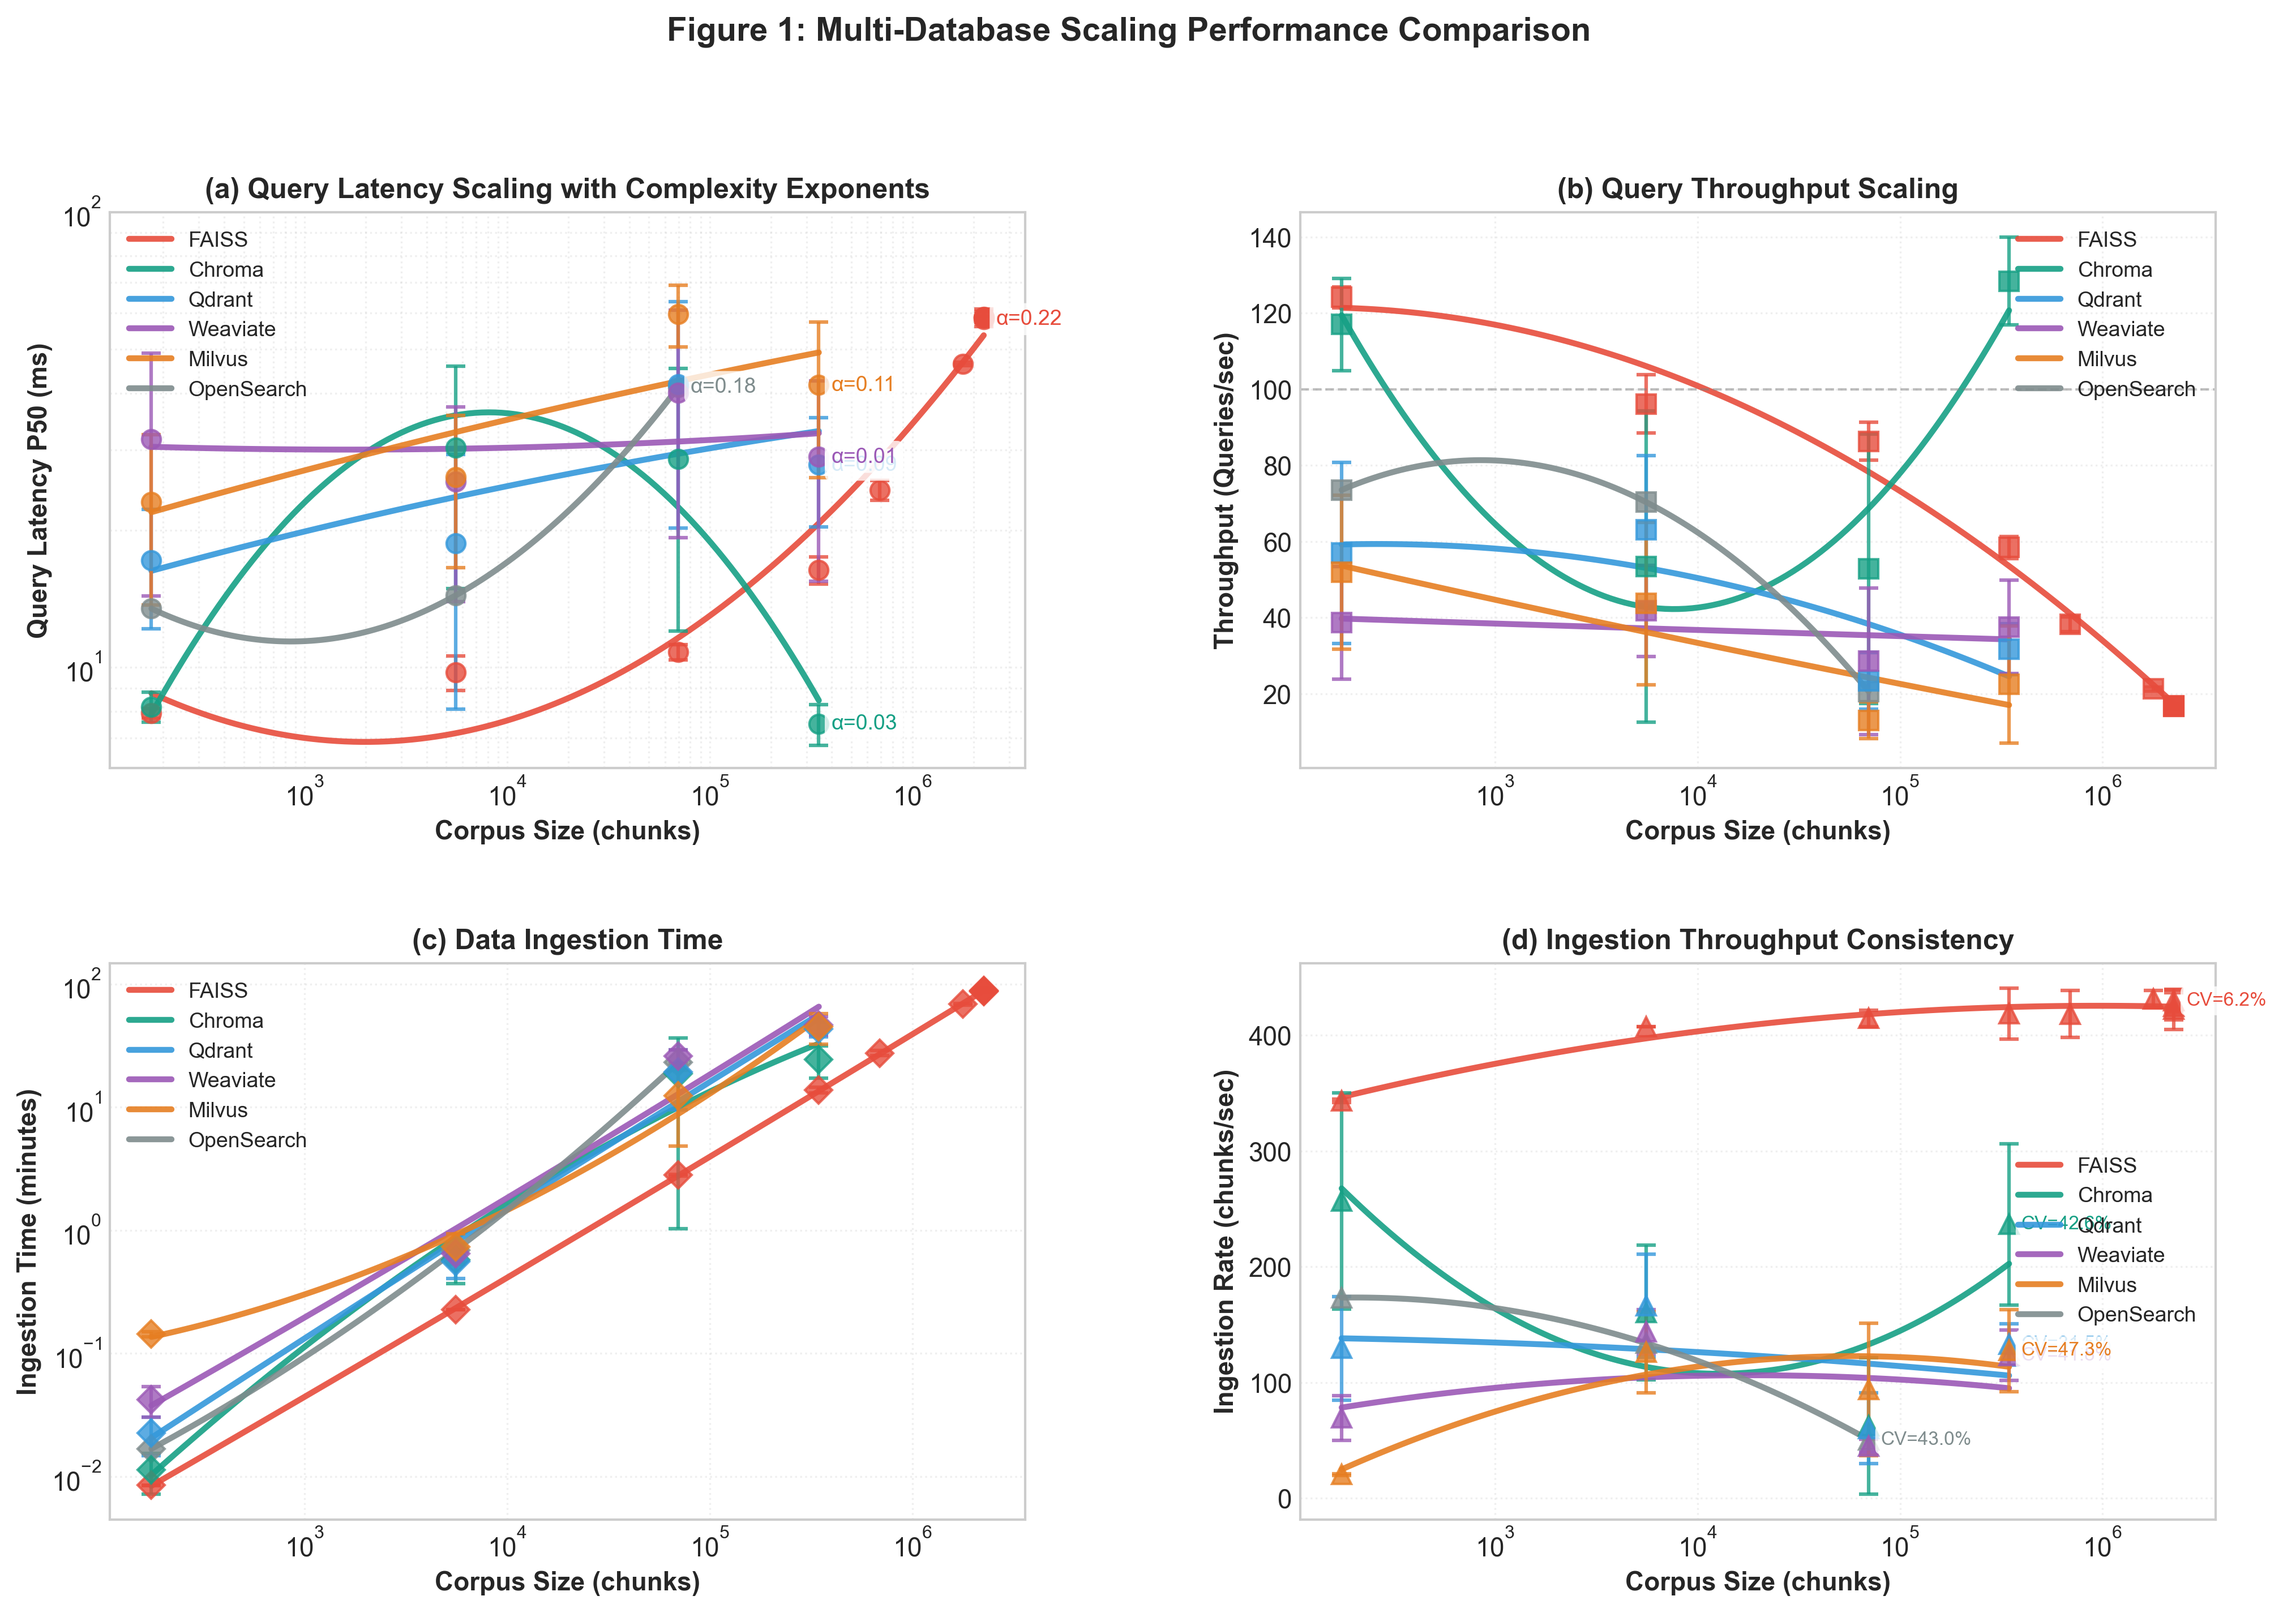
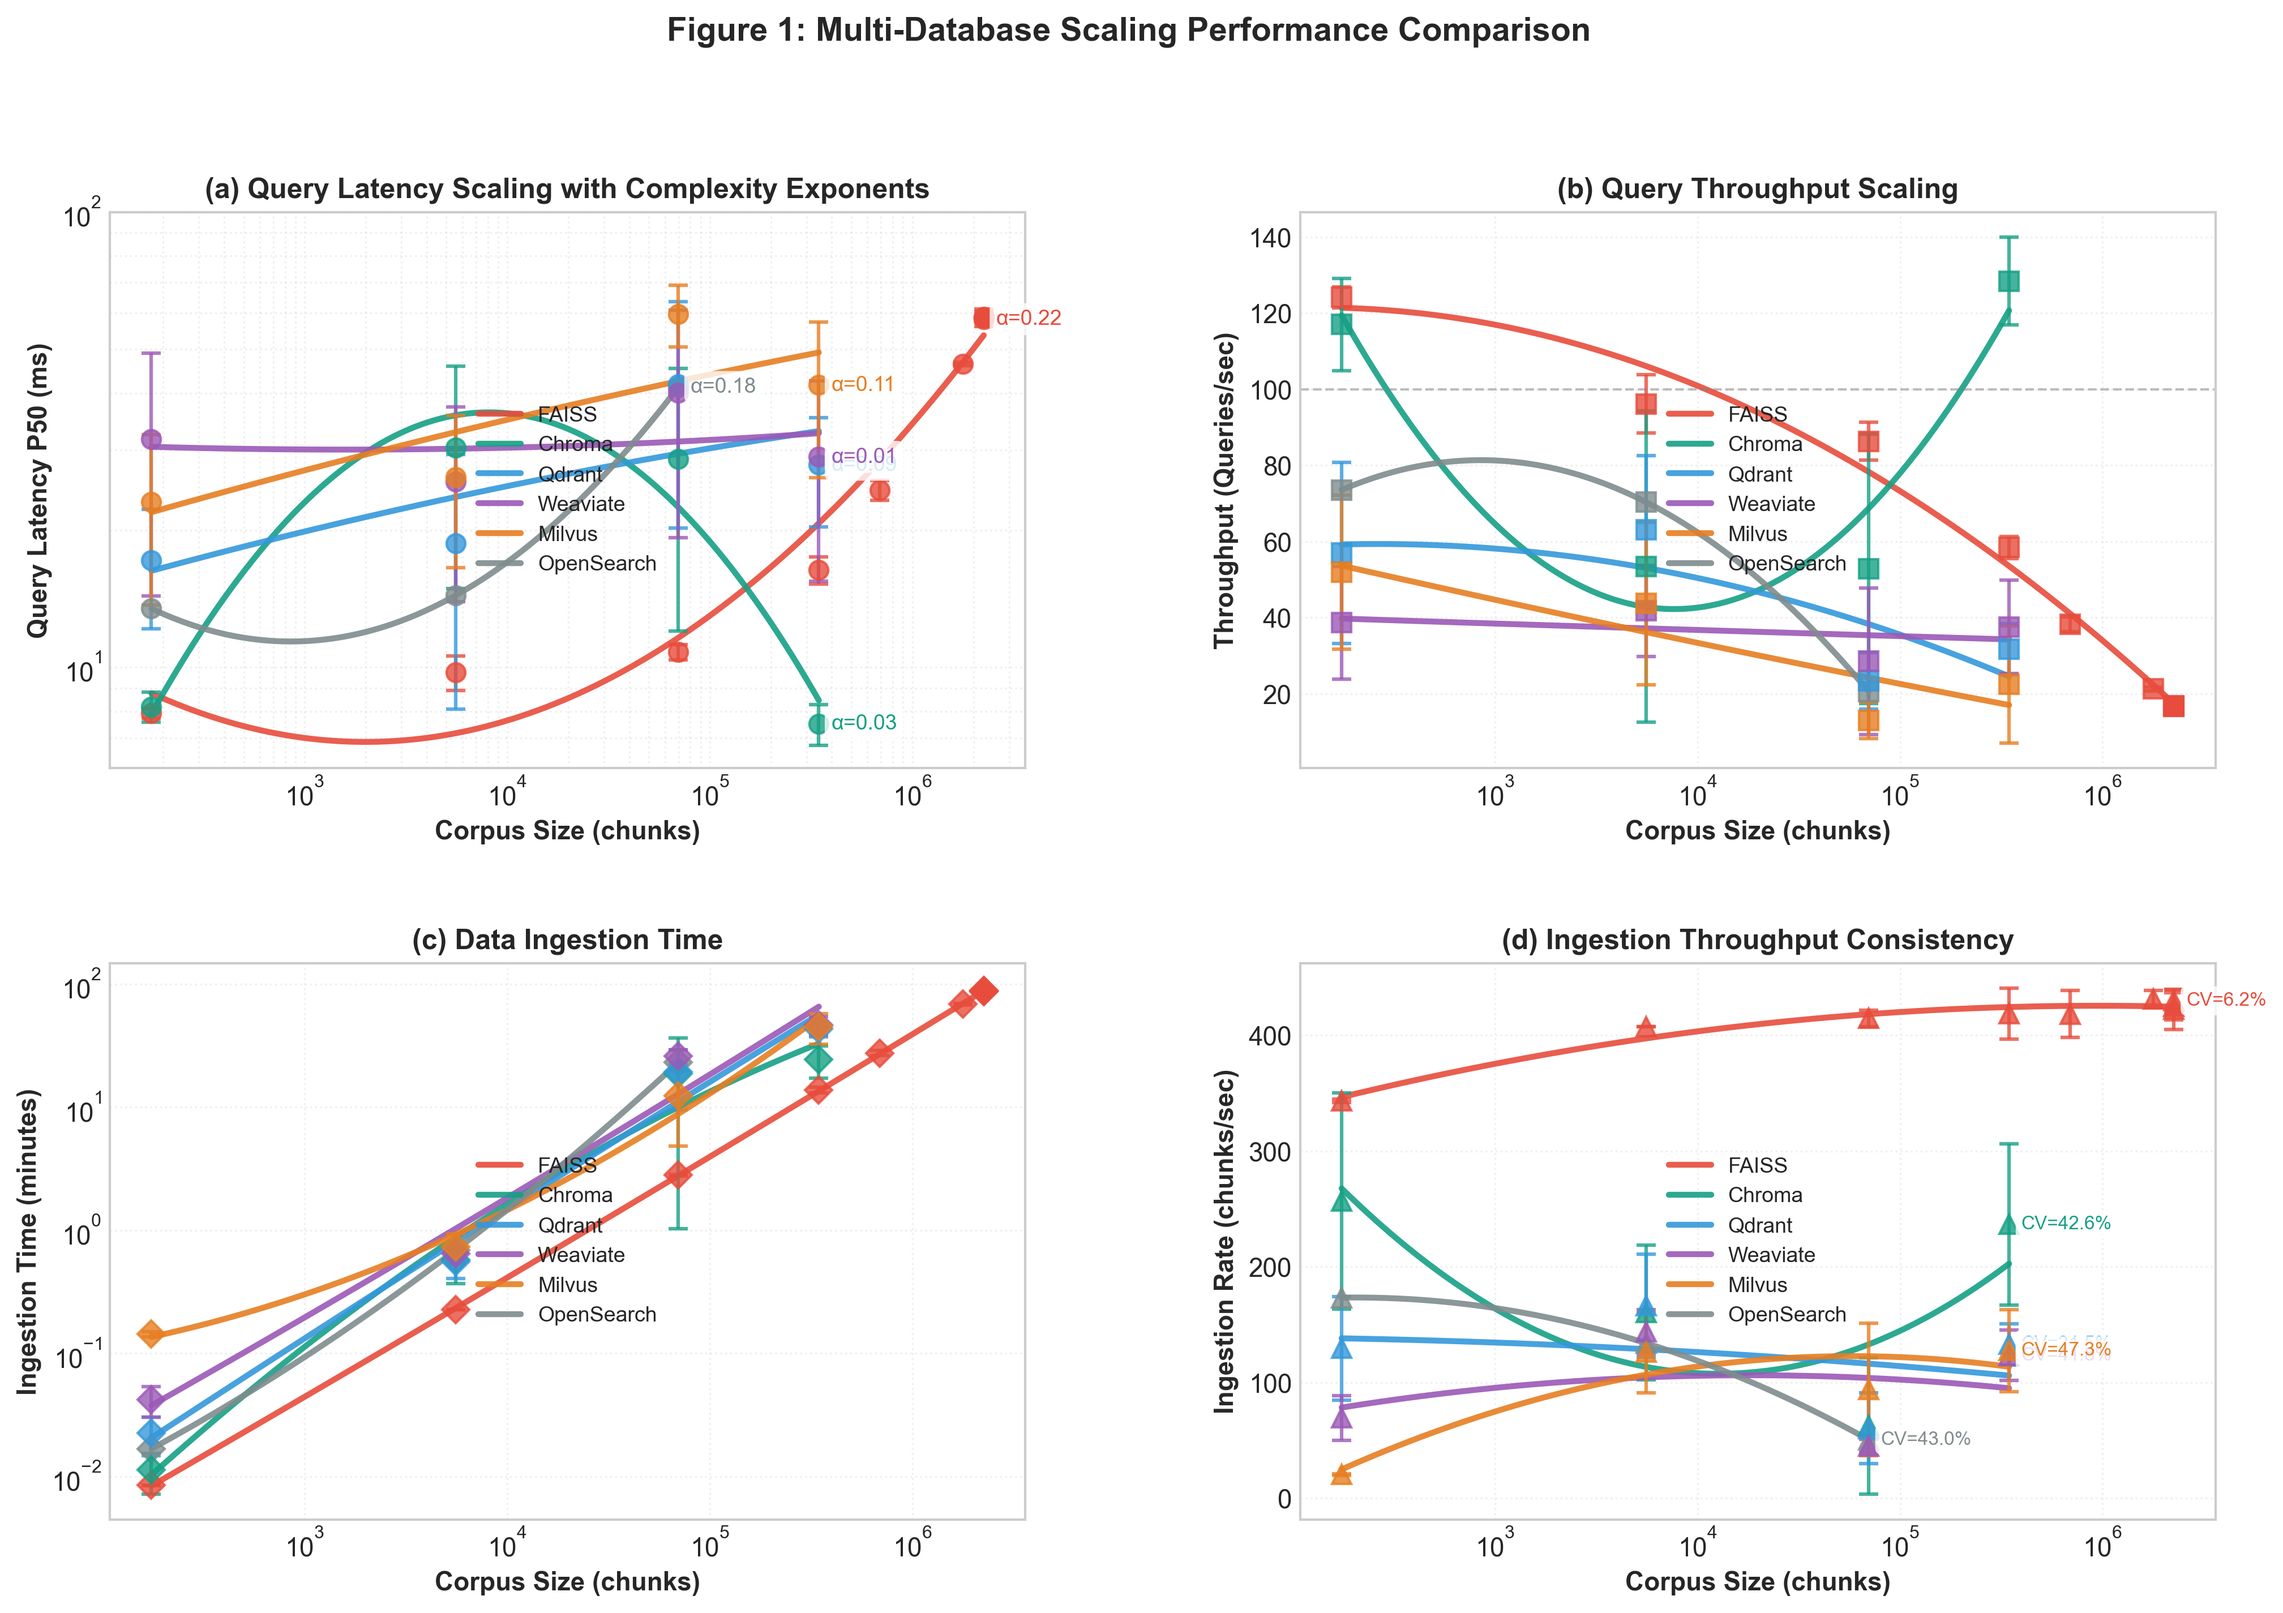
Center legends in Figure 1 to avoid occlusion
Moved all 4 panel legends from corner positions (upper left/best) to center
of chart area to prevent overlap with data points, trend lines, and annotations.

Changes:
- Panel (a): upper left → center
- Panel (b): best → center
- Panel (c): upper left → center
- Panel (d): best → center

Improves readability by ensuring legends don't obscure data or power-law/CV annotations.

🤖 Generated with [Claude Code](https://claude.com/claude-code)

diff --git a/Scripts/plot_multi_database_scaling.py b/Scripts/plot_multi_database_scaling.py
@@ -448,7 +448,7 @@ def plot_combined_dashboard(all_data, output_dir):
     ax1.set_xlabel('Corpus Size (chunks)', fontweight='bold', fontsize=11)
     ax1.set_ylabel('Query Latency P50 (ms)', fontweight='bold', fontsize=11)
     ax1.set_title('(a) Query Latency Scaling with Complexity Exponents', fontweight='bold', fontsize=12)
-    ax1.legend(loc='upper left', framealpha=0.95, fontsize=9)
+    ax1.legend(loc='center', framealpha=0.95, fontsize=9)
     ax1.grid(True, alpha=0.3, which='both', linestyle=':')
     ax1.set_xscale('log')
     ax1.set_yscale('log')
@@ -514,7 +514,7 @@ def plot_combined_dashboard(all_data, output_dir):
     ax2.set_xlabel('Corpus Size (chunks)', fontweight='bold', fontsize=11)
     ax2.set_ylabel('Throughput (Queries/sec)', fontweight='bold', fontsize=11)
     ax2.set_title('(b) Query Throughput Scaling', fontweight='bold', fontsize=12)
-    ax2.legend(loc='best', framealpha=0.95, fontsize=9)
+    ax2.legend(loc='center', framealpha=0.95, fontsize=9)
     ax2.grid(True, alpha=0.3, linestyle=':')
     ax2.set_xscale('log')
     ax2.axhline(y=100, color='gray', linestyle='--', linewidth=1, alpha=0.5, label='100 QPS threshold')
@@ -564,7 +564,7 @@ def plot_combined_dashboard(all_data, output_dir):
     ax3.set_xlabel('Corpus Size (chunks)', fontweight='bold', fontsize=11)
     ax3.set_ylabel('Ingestion Time (minutes)', fontweight='bold', fontsize=11)
     ax3.set_title('(c) Data Ingestion Time', fontweight='bold', fontsize=12)
-    ax3.legend(loc='upper left', framealpha=0.95, fontsize=9)
+    ax3.legend(loc='center', framealpha=0.95, fontsize=9)
     ax3.grid(True, alpha=0.3, linestyle=':')
     ax3.set_xscale('log')
     ax3.set_yscale('log')
@@ -630,7 +630,7 @@ def plot_combined_dashboard(all_data, output_dir):
     ax4.set_xlabel('Corpus Size (chunks)', fontweight='bold', fontsize=11)
     ax4.set_ylabel('Ingestion Rate (chunks/sec)', fontweight='bold', fontsize=11)
     ax4.set_title('(d) Ingestion Throughput Consistency', fontweight='bold', fontsize=12)
-    ax4.legend(loc='best', framealpha=0.95, fontsize=9)
+    ax4.legend(loc='center', framealpha=0.95, fontsize=9)
     ax4.grid(True, alpha=0.3, linestyle=':')
     ax4.set_xscale('log')
 
